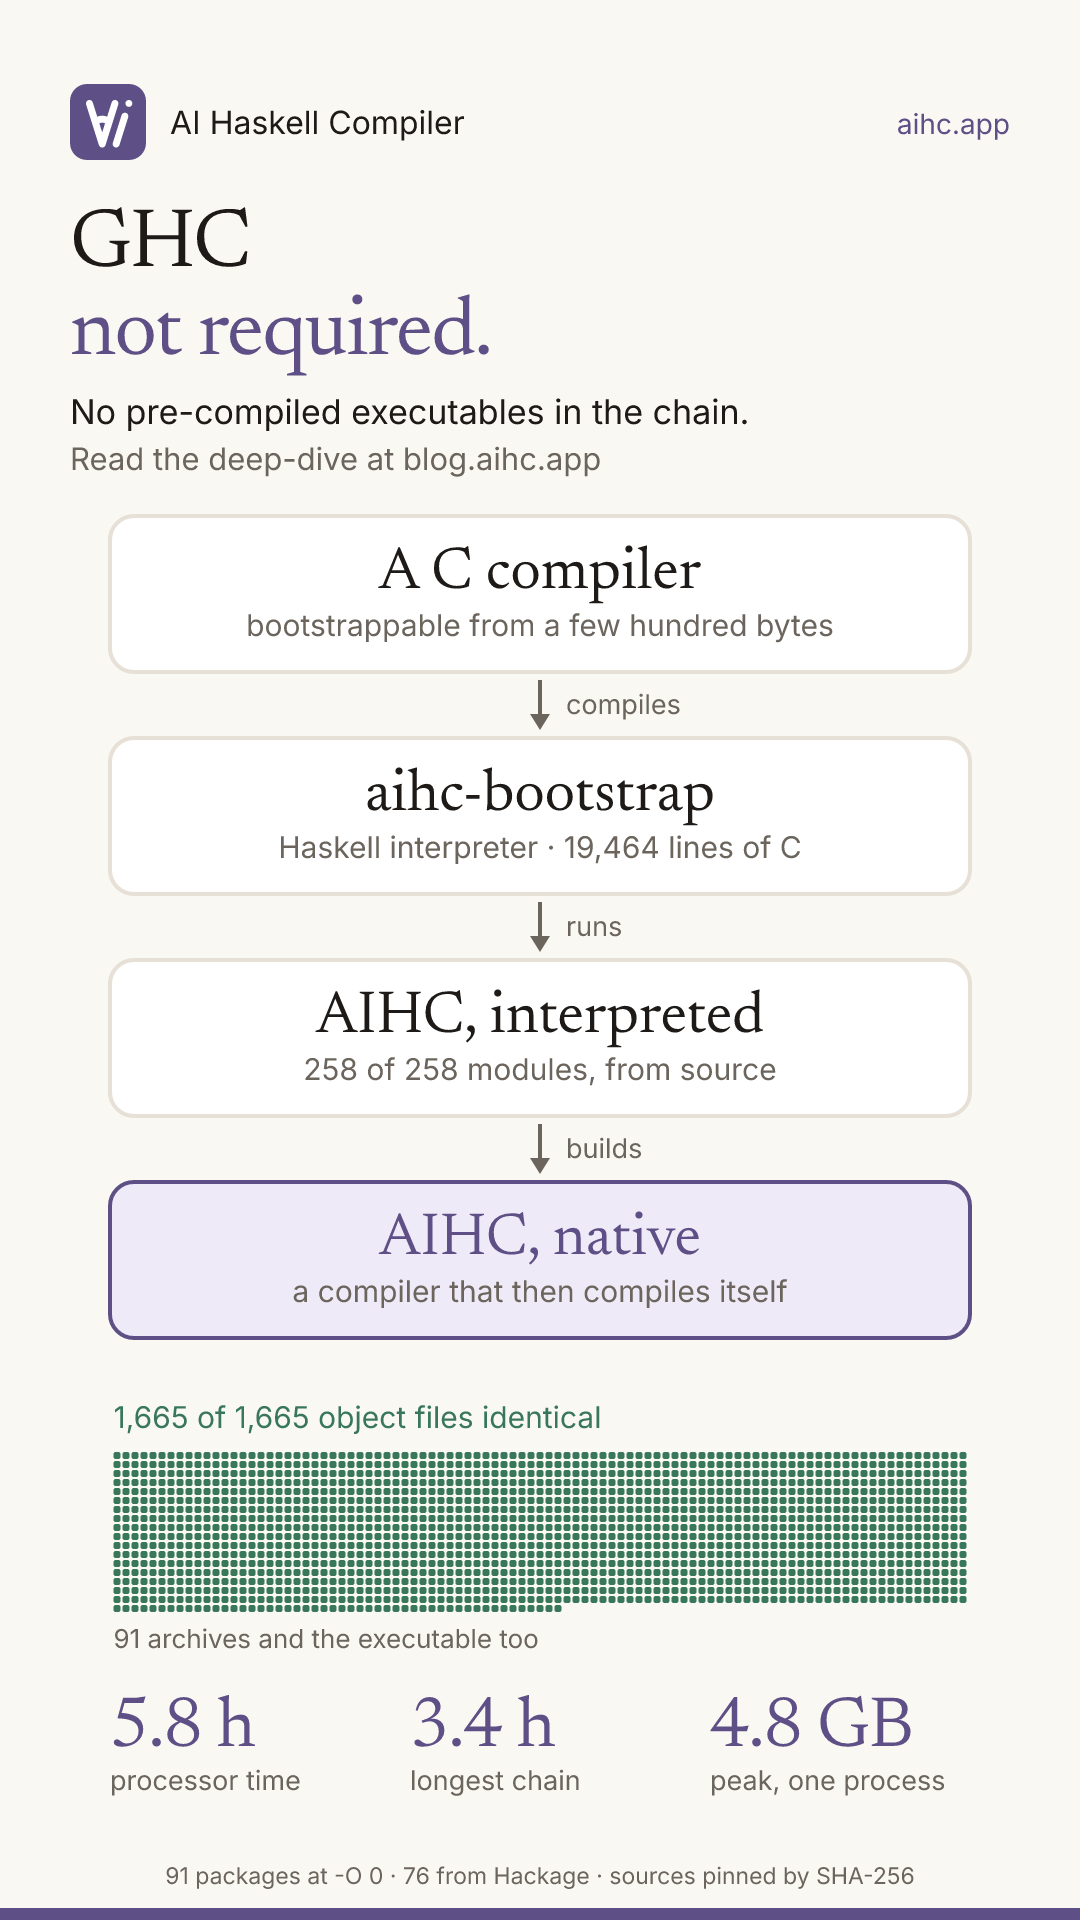
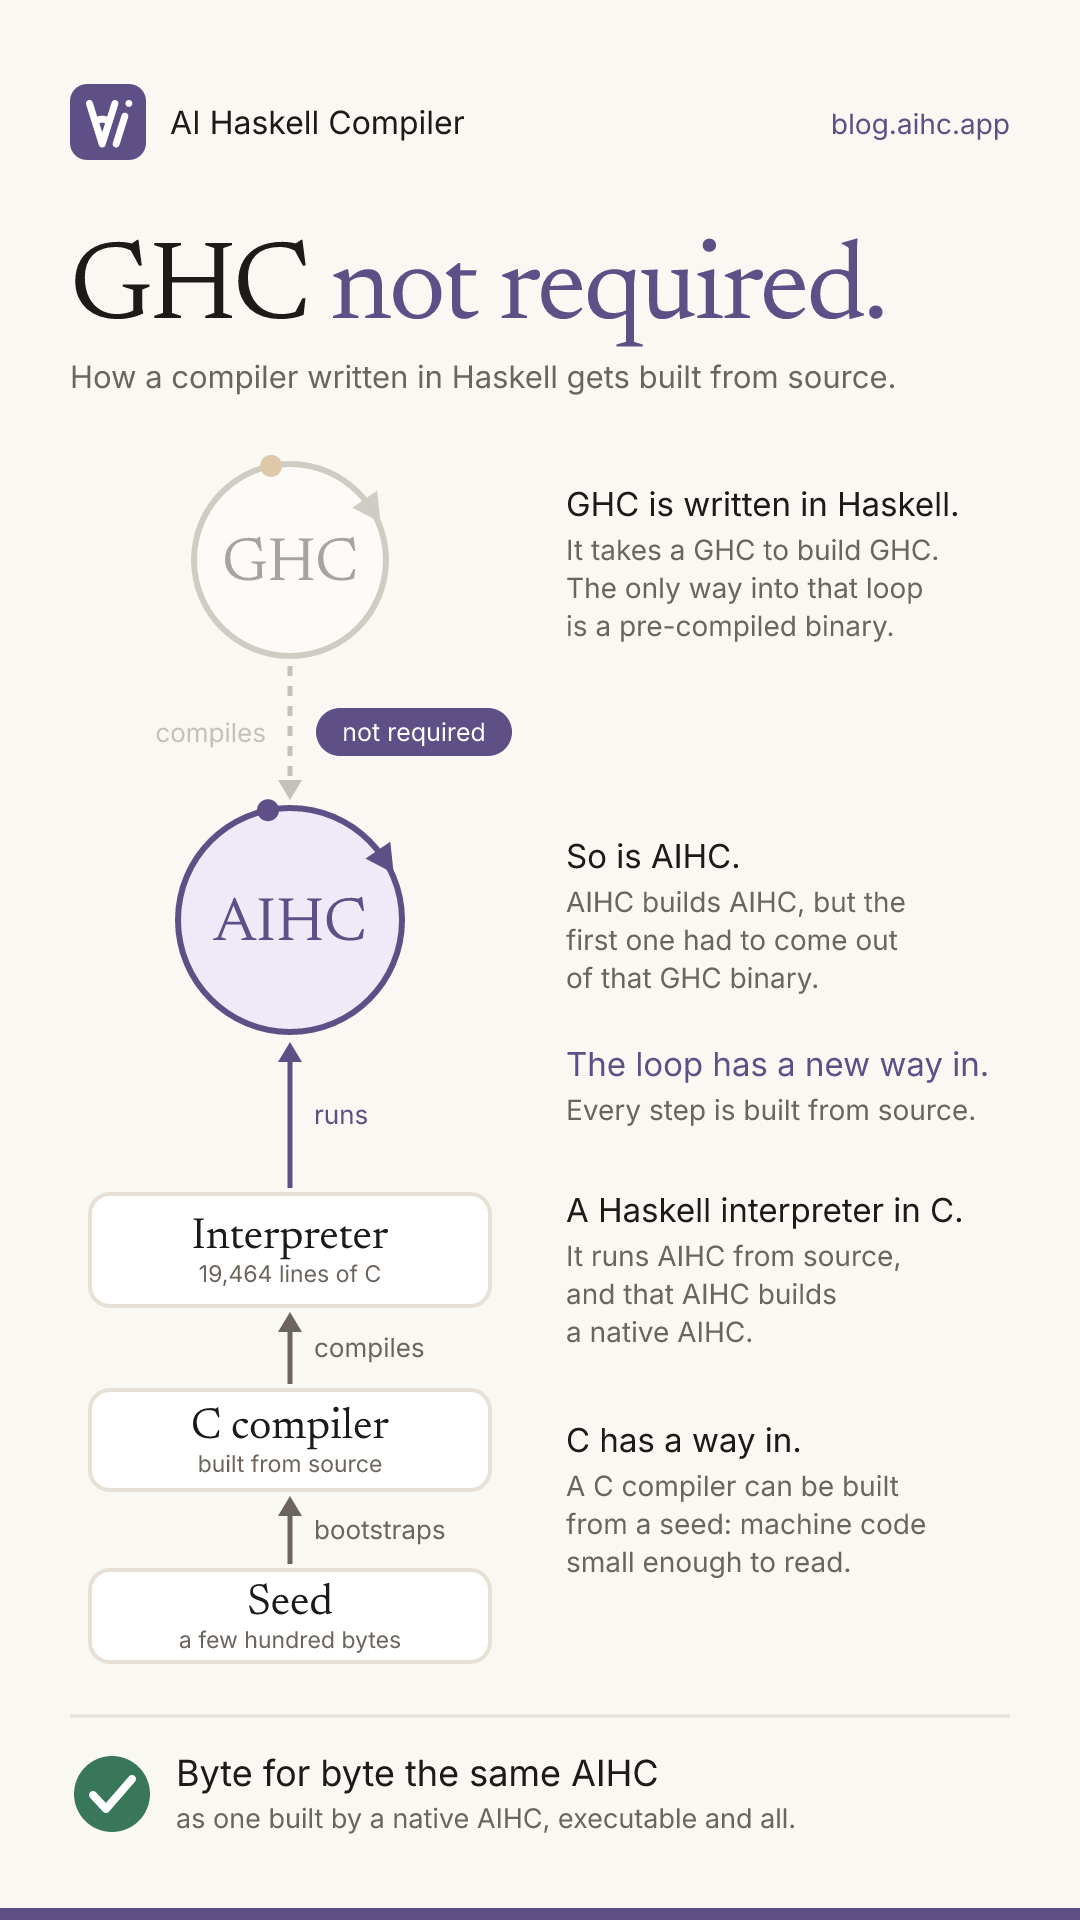
docs: show the bootstrap loop in the video and the identical build on the card

diff --git a/src/content/posts/2026-11-21-ghc-not-required.md b/src/content/posts/2026-11-21-ghc-not-required.md
@@ -23,15 +23,15 @@ This is not one binary swapped for another. A C compiler does not need a C compi
 <details open>
 <summary>Bootstrap animation — collapse to hide motion</summary>
 <div class="pipeline-media">
-<video data-looping-animation loop muted playsinline preload="metadata" poster="/images/c-bootstrap-phone-poster.png" width="1080" height="1920" aria-label="The bootstrap chain. A C compiler compiles aihc-bootstrap, a Haskell interpreter of 19,464 lines of C. The interpreter runs AIHC from source: 258 modules. The interpreted AIHC builds a native AIHC from 91 packages. All 1,665 object files are identical to those of a native AIHC building the same sources.">
+<video data-looping-animation loop muted playsinline preload="metadata" poster="/images/c-bootstrap-phone-poster.png" width="1080" height="1920" aria-label="GHC is written in Haskell and takes a GHC to build, so the only way into that loop is a pre-compiled binary. AIHC is written in Haskell too, and the first AIHC had to come out of that GHC binary. Now a seed bootstraps a C compiler, the C compiler compiles an interpreter of 19,464 lines of C, and the interpreter runs AIHC from source. The result is byte for byte the same AIHC as one built by a native AIHC.">
 <source src="/images/c-bootstrap-phone.mp4" type="video/mp4" />
 </video>
-<img class="pipeline-still" src="/images/c-bootstrap-phone-poster.png" alt="A C compiler compiles aihc-bootstrap, which runs AIHC from source, which builds a native AIHC. 1,665 of 1,665 object files are identical to those of a native AIHC. The build takes 5.8 hours of processor time." width="1080" height="1920" loading="lazy" />
+<img class="pipeline-still" src="/images/c-bootstrap-phone-poster.png" alt="Two loops: GHC, which takes a GHC to build, and AIHC, which the GHC binary used to compile. A new chain enters the AIHC loop from below: a seed bootstraps a C compiler, which compiles an interpreter, which runs AIHC. The arrow from GHC is marked not required. The result is byte for byte the same AIHC." width="1080" height="1920" loading="lazy" />
 <button type="button" class="pipeline-toggle">Play animation</button>
 </div>
 </details>
 
-*The counters are animated. The numbers they stop at are measured.*
+*The old way in is at the top, the new one at the bottom. Both end in the same compiler.*
 
 ## An interpreter with one customer
 
